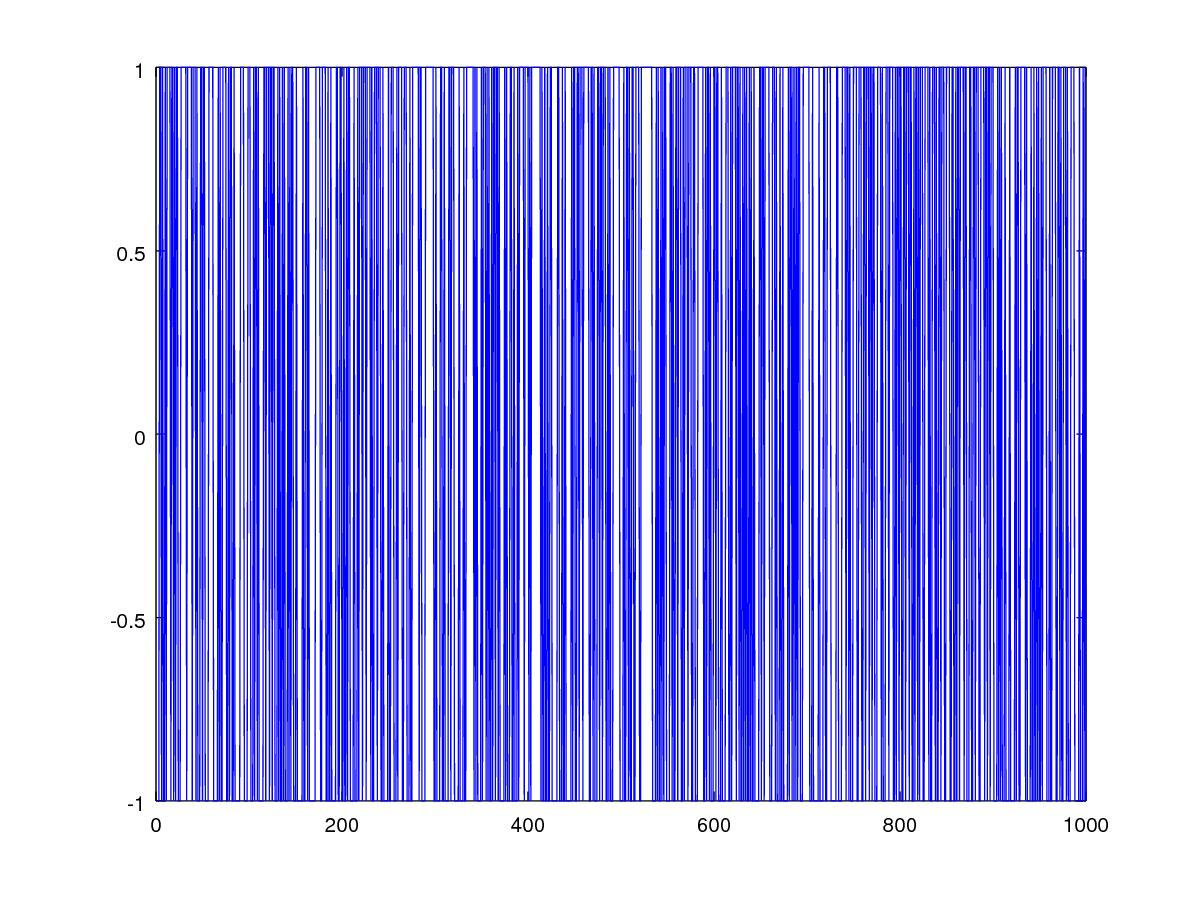
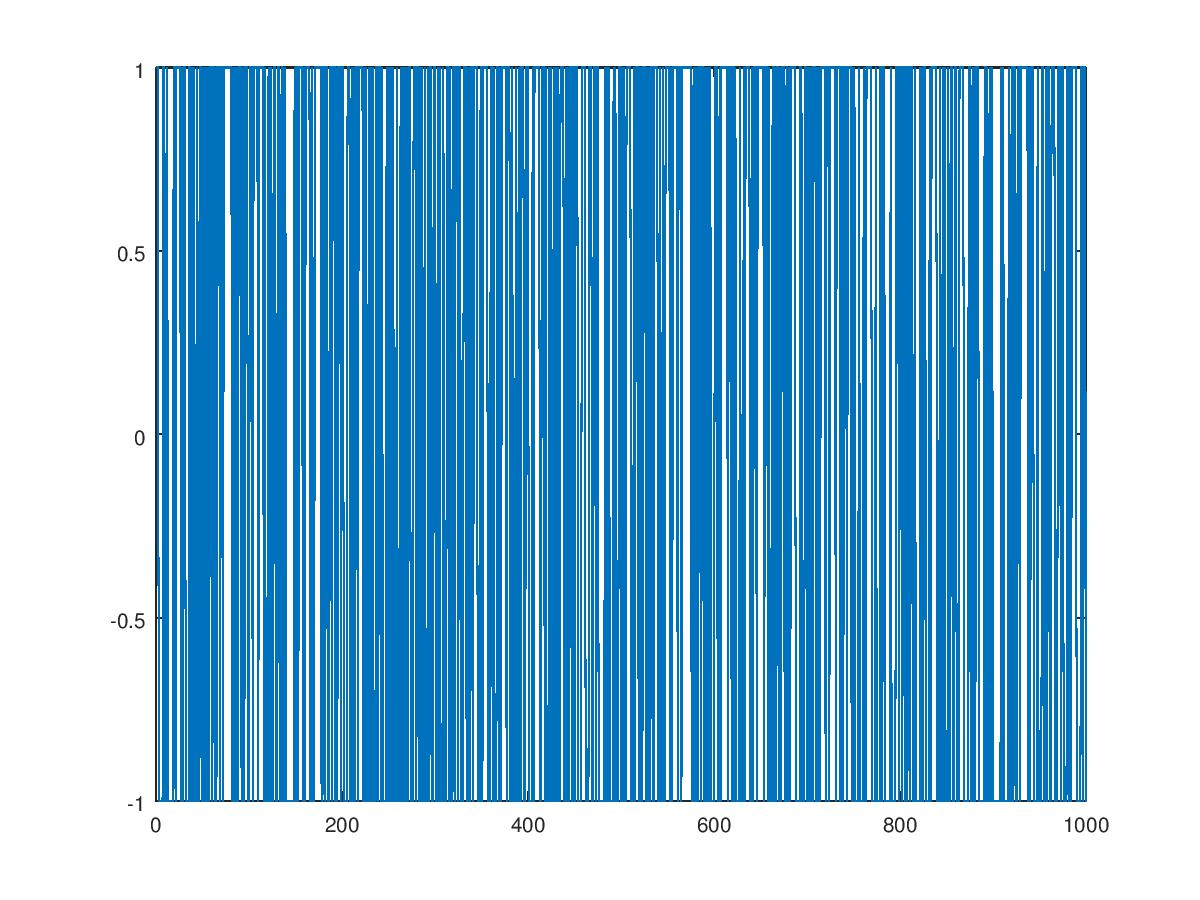
Update noise

diff --git a/main.m b/main.m
@@ -8,9 +8,8 @@ signal = signal + bruit(5, formant*formant', size(signal,2));
 recu = reception(signal, formant, SURECHANTILLONNAGE, TAILLE_FORMANT*SURECHANTILLONNAGE/2);
 recu = recu(1,1:size(message,2));
 sum(abs(recu-message)/2)
-%figure 1;
 %plot(recu);
-%saveas(recu,'signal_bruite.jpg');
+%saveas(plot(recu),'signal_bruite.jpg');
 %figure 2;
 %plot(recu - message);
 %saveas(plot(recu - message),'diff_noise.png')
